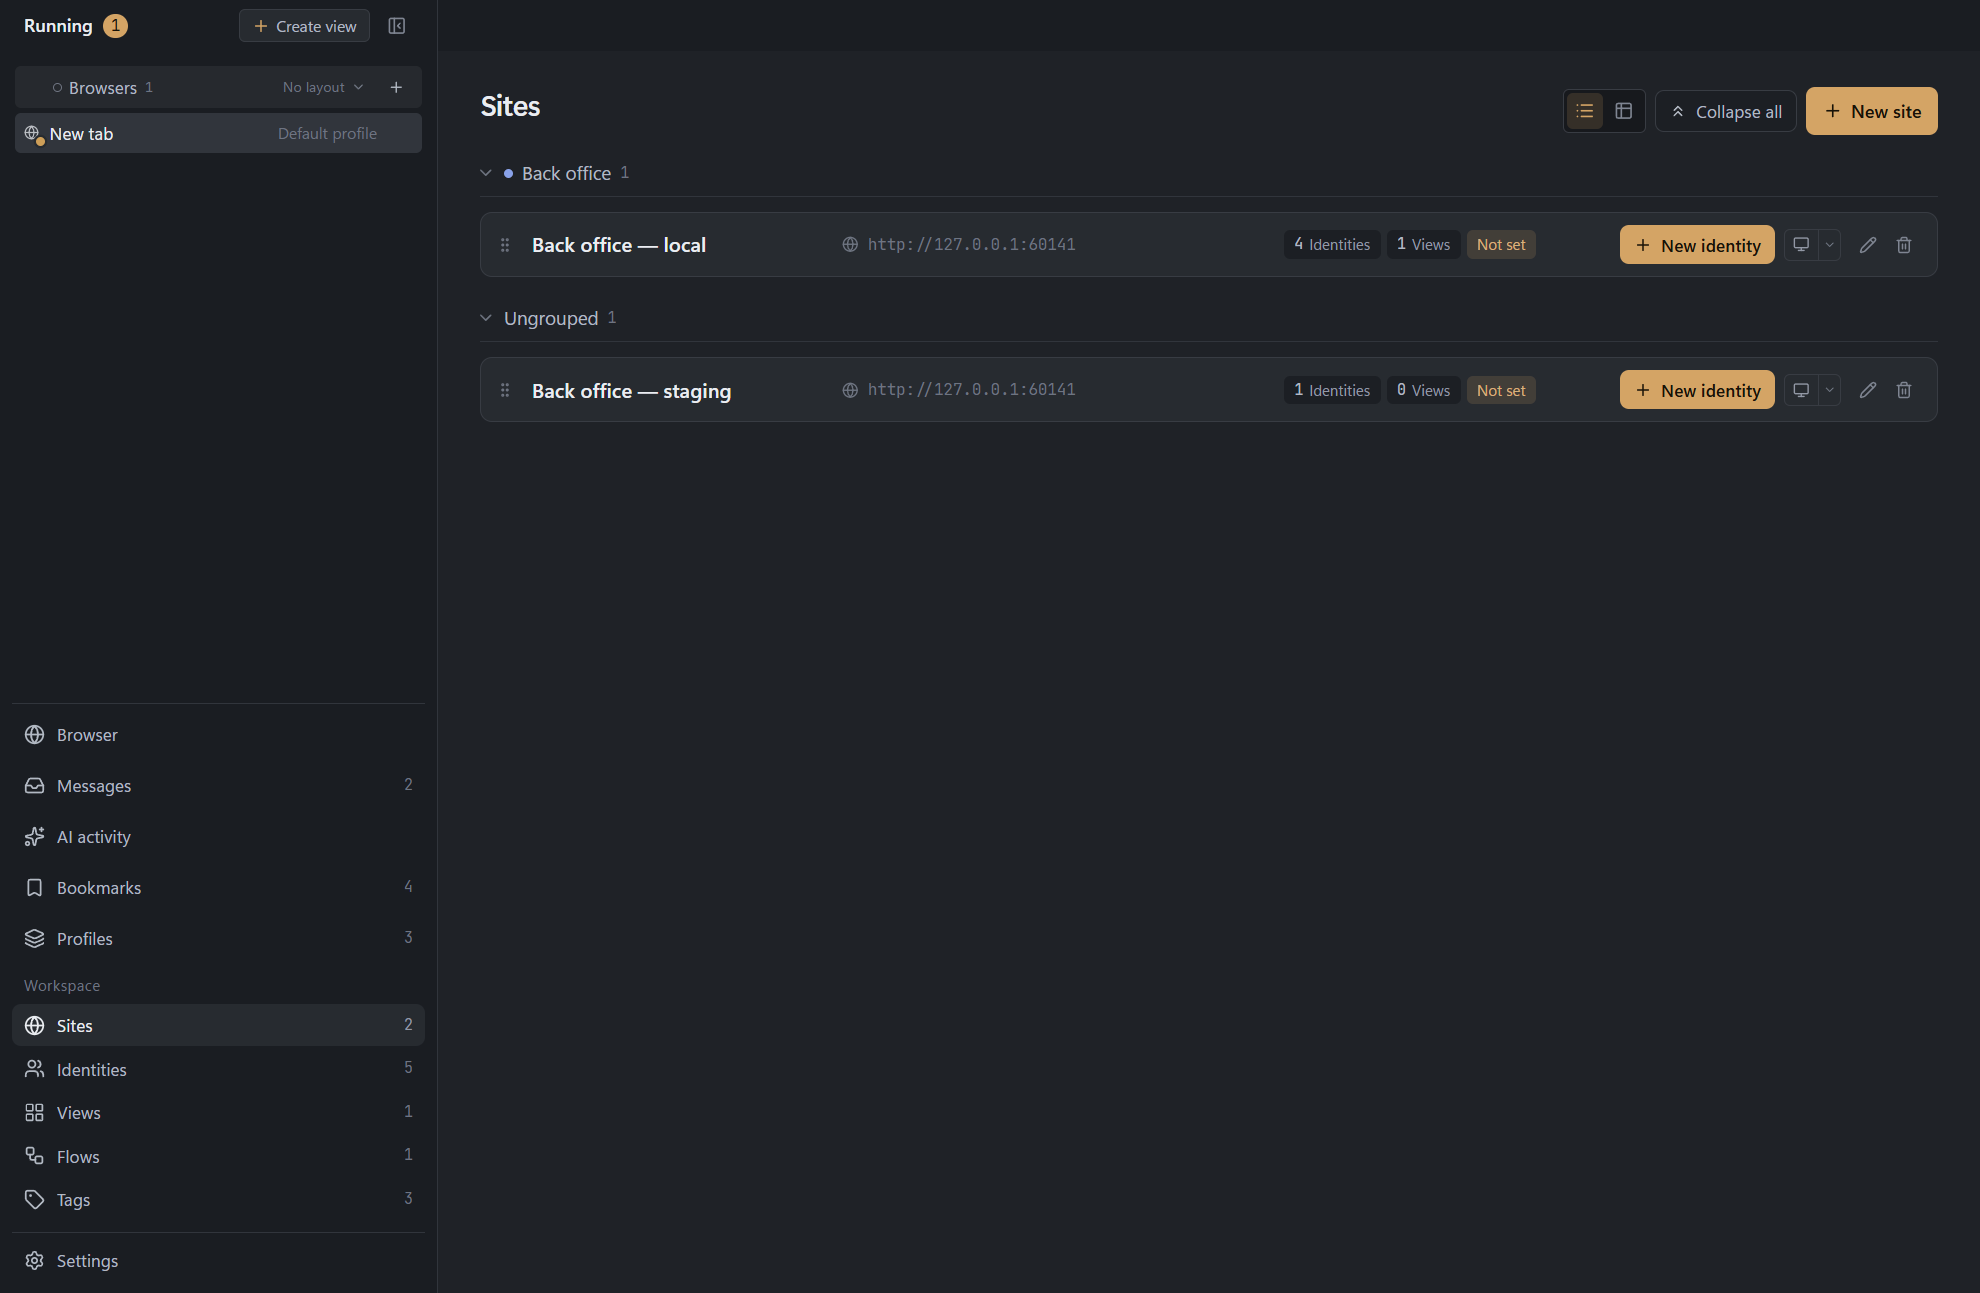
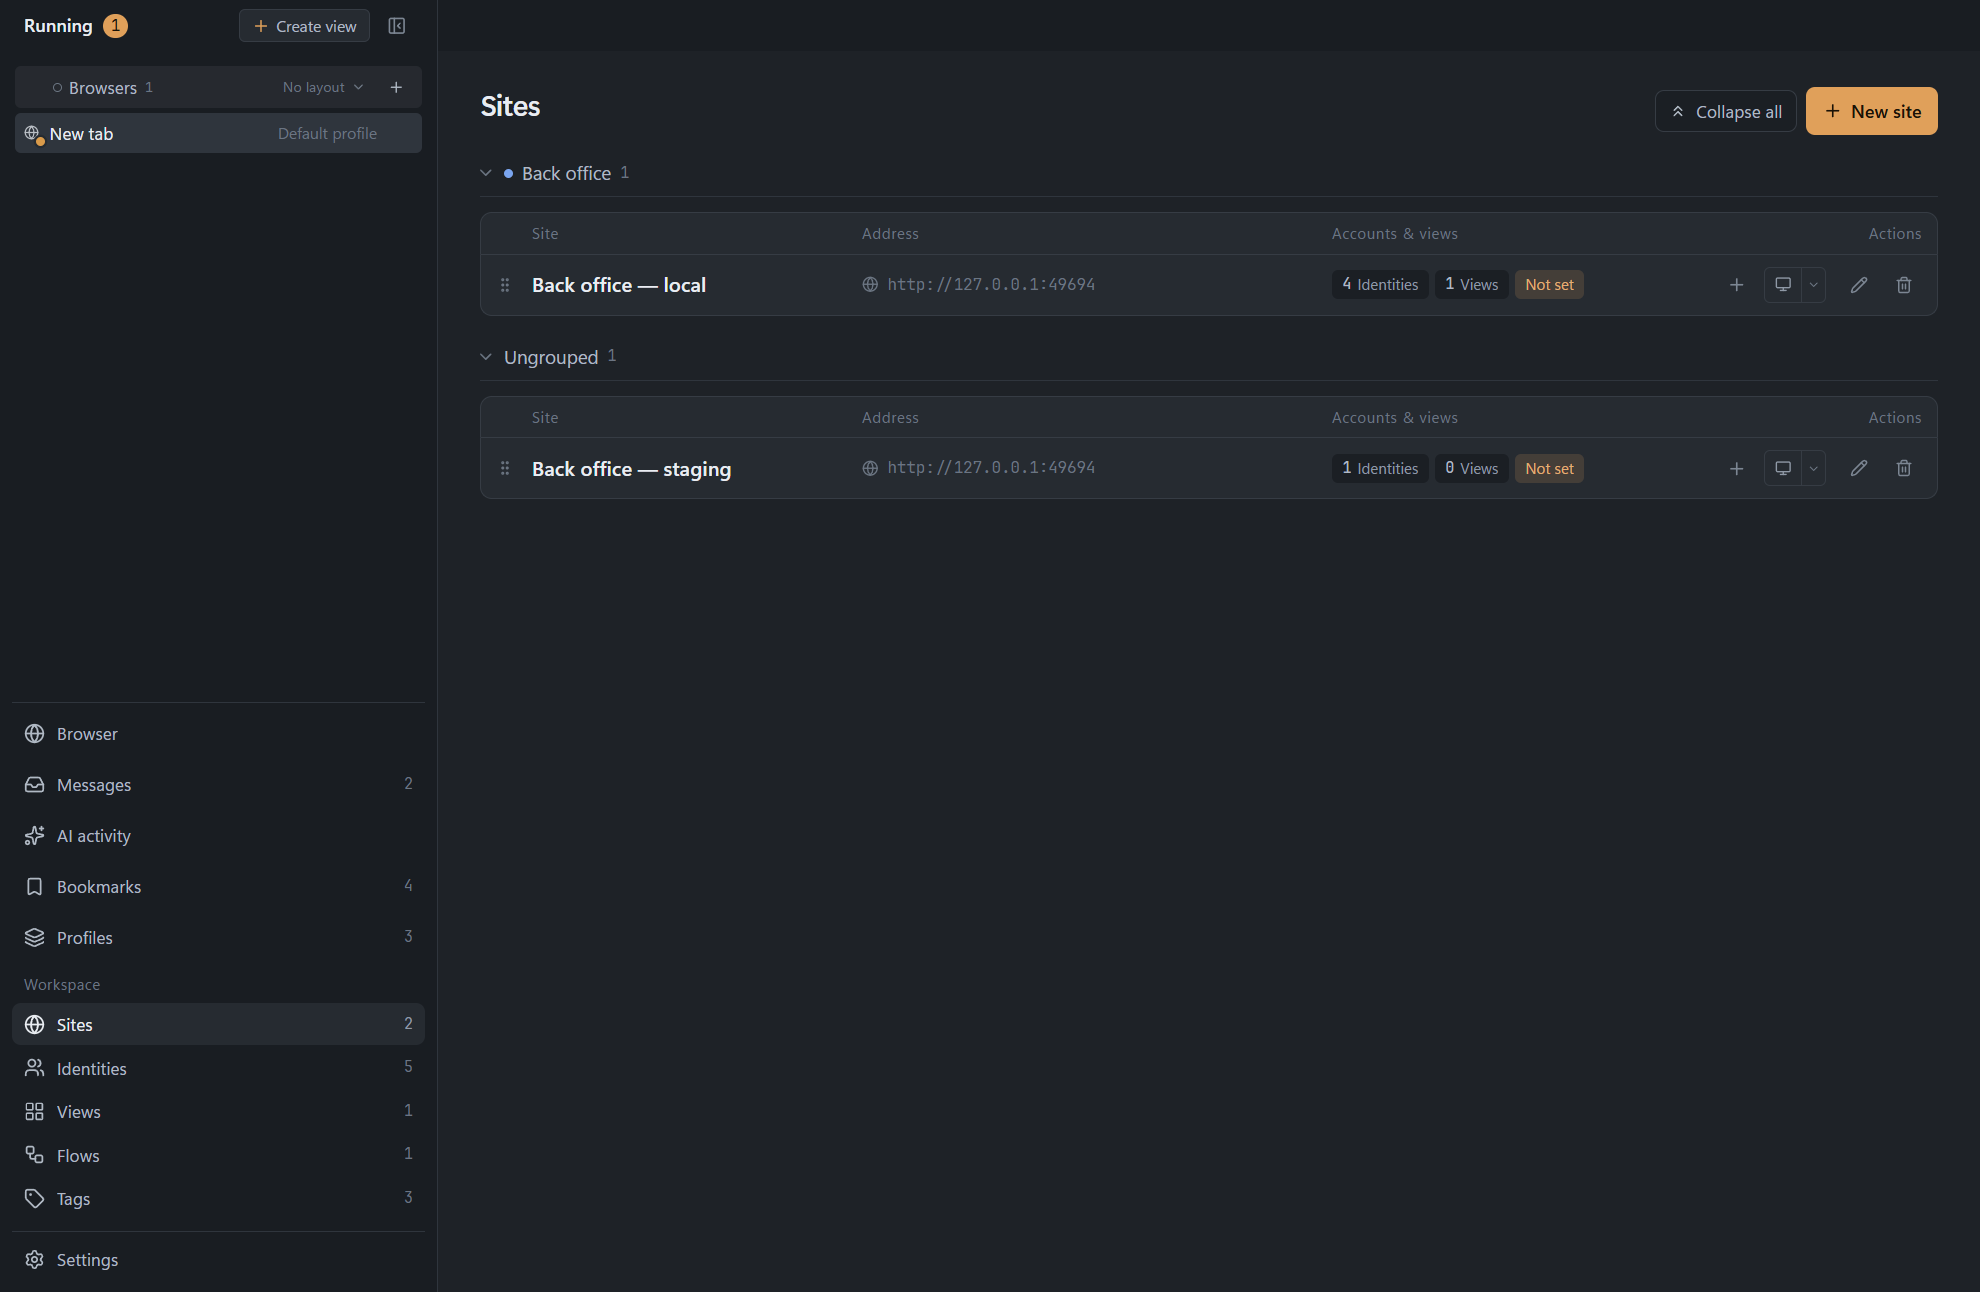
docs(root): 架构文档与 README 跟上表格改造，补新截图
- architecture.md 删掉 CollectionViewToggle 组件行，并把「两态切换」一节改写为
  现在为什么只有一种布局（两者共用同一份行标记与网格线），补上操作列的
  单一控制约定与守护它的 e2e 断言。
- README 两语言版本同步这一句。
- ADR 0007 里指向 design/browser-surface.md 的相对链接少了一级，修掉。
- 四个截图重新生成。

diff --git a/docs/architecture.md b/docs/architecture.md
@@ -82,7 +82,6 @@
 | `Checkbox` | 复选框 + 文案 | `v-model`、`disabled` |
 | `EmptyState` | 空列表的整套框架 | `text`、`note`、`#icon` 与默认动作槽 |
 | `InputShell` | 带描边的输入容器 + 聚焦扫光 | `size`（toolbar/hero）、`as` |
-| `CollectionViewToggle` | 列表 / 表格两态切换 | `modelValue`、`data-collection-view` |
 
 这条规则是踩出来的，两次：
 
@@ -109,10 +108,19 @@
 `:focus-within` 纯 CSS 触发，失焦即复位，不需要 JS 状态。
 
 
-**站点与账号各有一份列表 / 表格偏好。** 两页共用 `CollectionViewToggle`，选择写进
-`settings.sitesView` / `settings.identitiesView`（默认 `list`），刷新与重启后保持。列表是紧凑
-单行，适合按名字快速扫；表格每组带列头，适合横向比较地址、角色与状态。两种视图共享同一份
-行结构与拖拽钩子（`.env-card`、`.site-grip`、`.id-card`），切换只改网格模板与列头，不重建行。
+**站点与账号两页都只有表格一种布局。** 每组一个列头，行与列头共用同一份 `--site-cols` /
+`--id-cols` 网格模板，因此列始终是列。曾经有一个 `CollectionViewToggle` 提供「列表 / 表格」
+两态，但两者共用同一份行标记、同一条网格线，差别只有 6px 行距和一个列头——这不是两种视图，
+是同一个表格少画了一行字。删掉切换后布局无条件成立：每组的列头就是表格的顶盖，组内最后一行
+是桌脚（`.last`），中间的行只保留侧边与下边框。行结构（`.env-card`、`.site-grip`、`.id-card`）
+与拖拽、选择钩子不变，由 `e2e-collection-tables` 断言列对齐、单行、顶盖与桌脚。
+
+**操作列里只有一种控制。** 站点行与账号行的操作列统一为图标按钮：同一簇里不混文字动作，
+不留一处文字一处图标；控件高度一致（`IconButton` 的 24px，紧凑启动控件的 `compact` 变体
+同样固定 24px），且整簇靠列尾右对齐。曾经账号行三个文字动作加一个编辑图标、站点行一个
+文字按钮加一个分体启动控件，两页都在同一列里出现两种宽度与两种字号——用户看到的是
+「有文字有图标，很乱」，以及「操作列间隔这么大」。同簇两种尺寸由
+`e2e-collection-tables` 的 `actionsScript` 断言：控件数、无文字、高度集合唯一、右边缘唯一。
 
 **所有写操作的表单都在 `Modal` 里。** 页面正文只留列表与筛选，新建、编辑、改名一律开
 弹窗：一个按需出现的表单会把下面的列表挤下去，而内联的编辑会重排它所在的那一行——

diff --git a/README.en.md b/README.en.md
@@ -110,7 +110,7 @@ With no view open, startup lands on one blank page whose surface is a search box
   <img src="docs/screenshots/flat-strip.png" alt="No view open, and the stage still shows its page strip" width="900" />
 </p>
 
-The identities page is where most of the day is spent: one row per identity with its role, login, session status and running state; both sites and identities offer a list / table toggle in the page header, and the choice is kept in settings across restarts. Clicking a row opens a page in the default tab group of the built-in surface — it never rearranges the view that happens to be on stage. To put a page into a view, drag the tab there or use the view's own “+”. Launching a batch is the one exception: it opens its own view in the default layout, because a batch is about seeing several at once.
+The identities page is where most of the day is spent: one row per identity with its role, login, session status and running state. Both sites and identities are tables — each group carries a column header that shares its widths with the rows, so address, role, status and actions stay in their own columns, and every row's actions are icon buttons aligned to the column's right edge. Clicking a row opens a page in the default tab group of the built-in surface — it never rearranges the view that happens to be on stage. To put a page into a view, drag the tab there or use the view's own “+”. Launching a batch is the one exception: it opens its own view in the default layout, because a batch is about seeing several at once.
 
 <p align="center">
   <img src="docs/screenshots/identities-en.png" alt="Identity list" width="900" />

diff --git a/docs/architecture/adr/0007-site-and-view-model.md b/docs/architecture/adr/0007-site-and-view-model.md
@@ -198,6 +198,6 @@
 3. **账号引用**：引用的创建、只读展示、断开、删除来源时的物化。
 4. **地址变更检测**：`lastOrigin` 与填充前确认。
 5. **视图跨站点复制**：成员映射 + `copiedFrom` + 手动同步。
-6. **浏览器表面**：按 [浏览器表面设计](../design/browser-surface.md) 落地视图与标签页。
+6. **浏览器表面**：按 [浏览器表面设计](../../design/browser-surface.md) 落地视图与标签页。
 
 第 1 步是地基，必须先单独完成并验证；第 6 步依赖第 1 步的命名，其余可并行。
